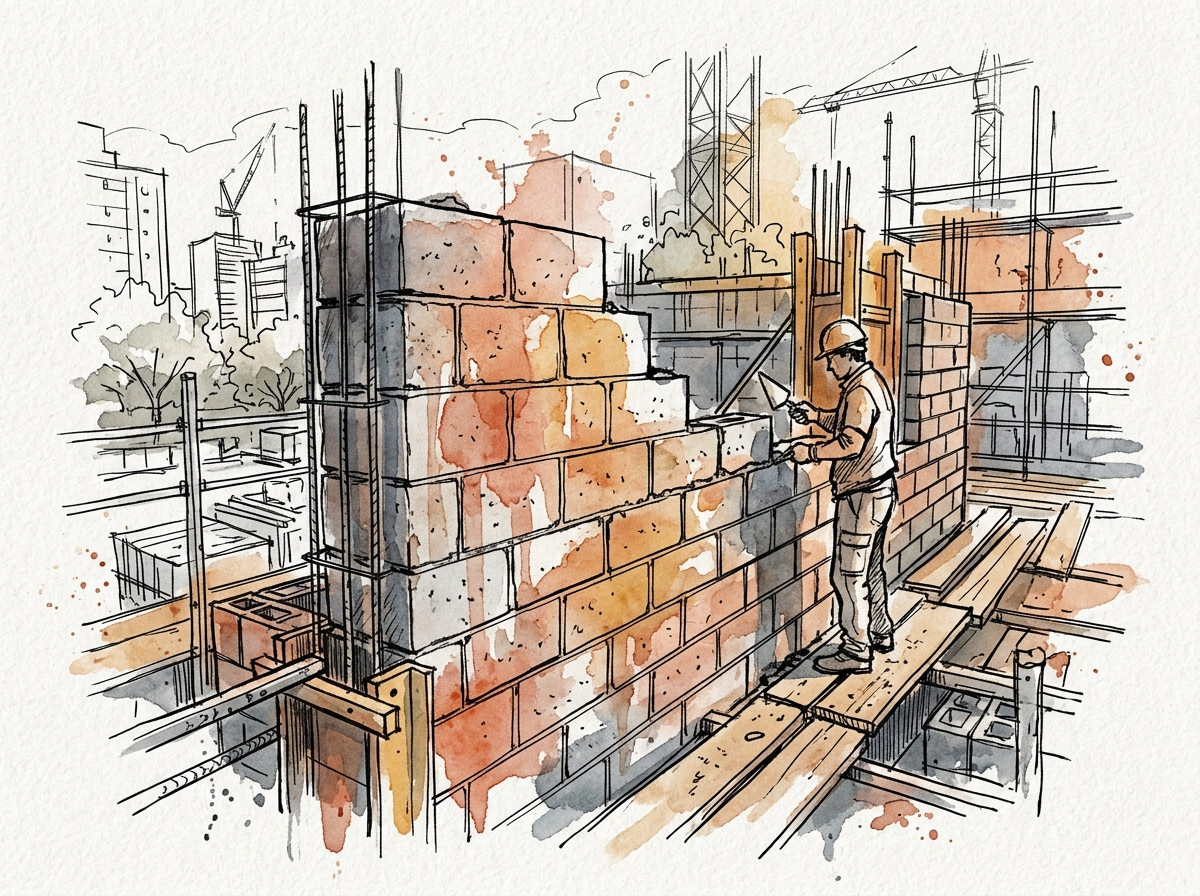
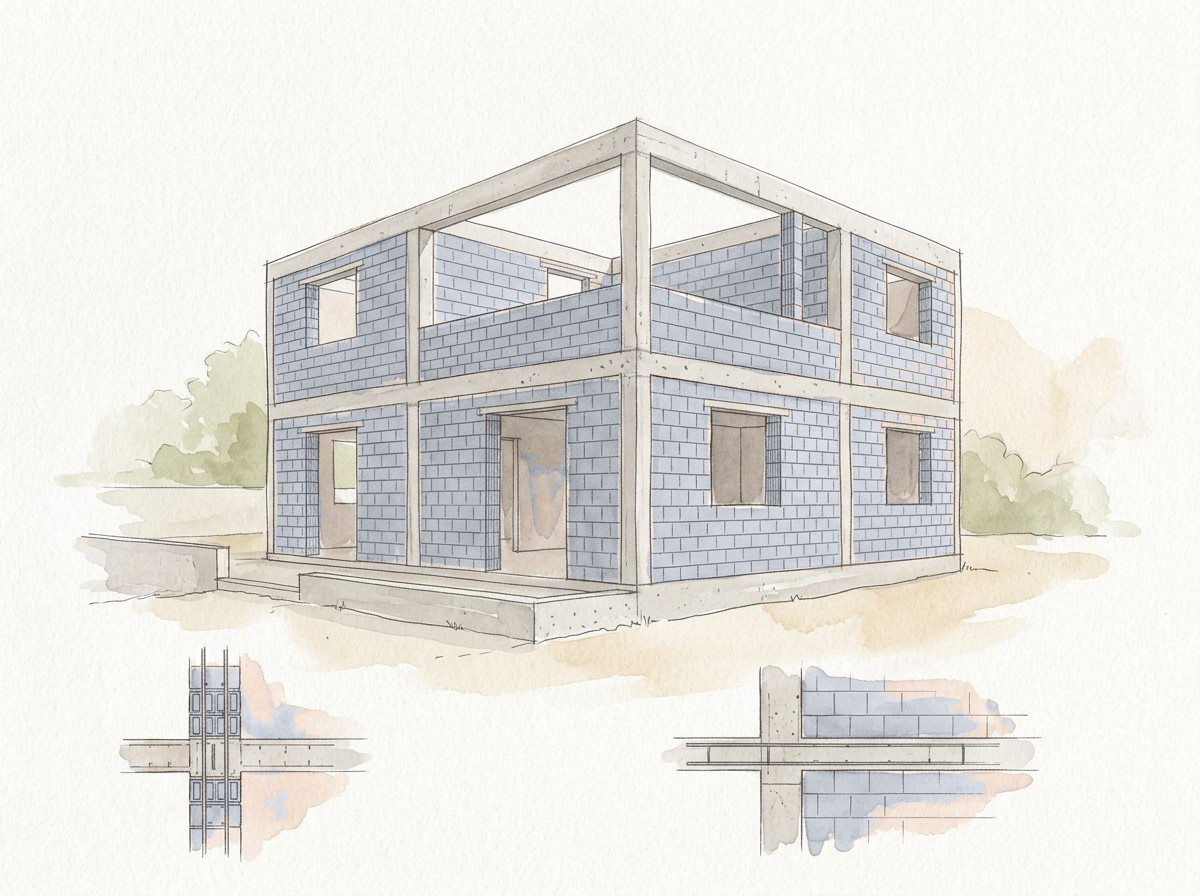
feat: add complete React web application implementation with supplier portals and state management

diff --git a/packages/core/src/data.ts b/packages/core/src/data.ts
@@ -95,7 +95,6 @@ export const SYSTEMS: System[] = [
   { k:'wood', n:'Wood frame', d:'Estrutura de madeira tratada de reflorestamento com placas OSB.', t:['Montagem a seco','Processo industrializado'], c:1.05, p:.50, f:94, m:'m6' },
   { k:'alvenaria', n:'Alvenaria convencional', d:'Tijolo ou bloco cerâmico com estrutura de concreto armado.', t:['Mão de obra fácil de achar','Reformas simples'], c:1, p:1, f:1240, m:'m1' },
   { k:'bloco', n:'Alvenaria estrutural', d:'Blocos que funcionam como estrutura, dispensando vigas e pilares.', t:['Menos concreto','Ideal para repetição'], c:.94, p:.75, f:420, m:'m4' },
-  { k:'concretopvc', n:'Concreto PVC', d:'Fôrmas de PVC preenchidas com concreto, que ficam como acabamento.', t:['Parede já acabada','Industrializado rápido'], c:1.02, p:.55, f:58, m:'m8' },
   { k:'premoldado', n:'Pré-moldado', d:'Peças de concreto fabricadas fora e montadas na obra com guindaste.', t:['Galpões e grandes vãos','Montagem industrializada rápida'], c:.97, p:.55, f:136, m:'m5' },
 ];
 

diff --git a/apps/web/src/App.tsx b/apps/web/src/App.tsx
@@ -138,7 +138,6 @@ const SYSTEM_IMAGES: Record<string, string> = {
   wood: '/systems/wood.jpg',
   alvenaria: '/systems/alvenaria.jpg',
   bloco: '/systems/bloco.jpg',
-  concretopvc: '/systems/concretopvc.jpg',
   premoldado: '/systems/premoldado.jpg',
 };
 
